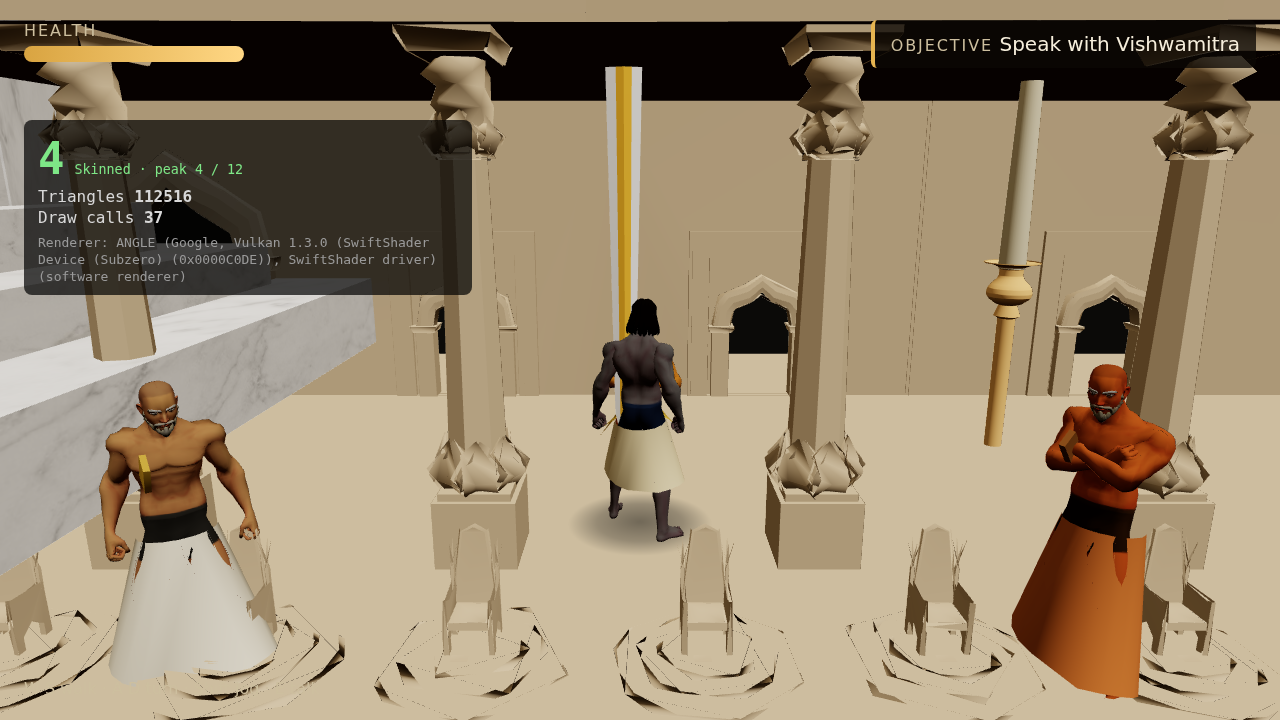
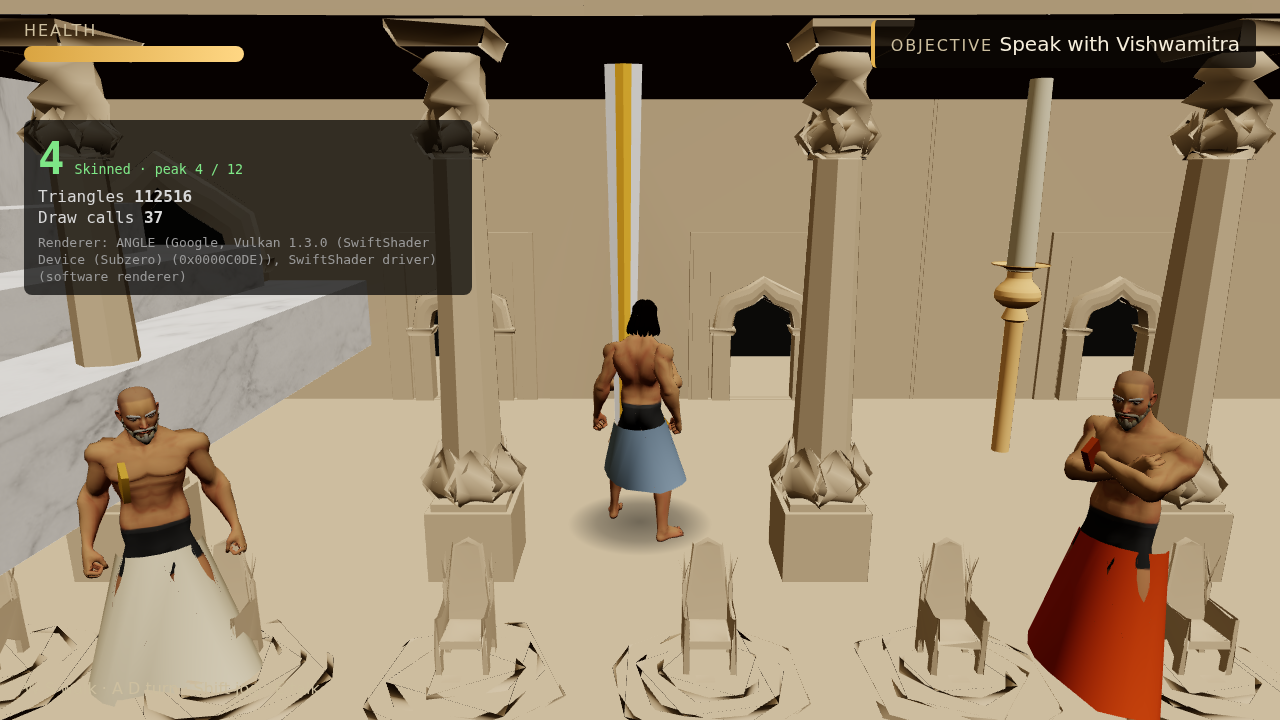
fix: prop grip scale and tint-on-garments-not-skin
Two user-reported visual bugs, confirmed with fresh screenshots before
fixing rather than assumed from the old committed ones.

Held props (bow, quiver, sword) rendered at 2-2.3m: the Quaternius source
GLBs bake a node-level 100x scale correct for environment props, never
adjusted for being hand-held. attachProp() now takes a per-prop
GripTransform (position, rotation, scale) sourced from balance.ts instead
of a bare position/rotation pair. The L1 court's separate giant
pillar/mace turned out to be baked into palace.glb's own decimated
geometry, not a prop-attachment bug at all - logged in TODO.md's new
visual-pass section instead of touched.

CharacterSpec.tint was painting the body material orange/white/etc
instead of the garments - a leftover from before Phase A's garments
existed, when skin was the only way to tell characters apart.
mergeSkinned() now takes body and garment parts separately and only
multiplies tint into the garment materials; skin, face, and eyes keep
their base texture on every character.

diff --git a/src/render/character-factory.ts b/src/render/character-factory.ts
@@ -71,14 +71,20 @@ function stripped(geometry: BufferGeometry): BufferGeometry {
   return g
 }
 
-/** Merge the source primitives into one SkinnedMesh with one material group per primitive. */
-function mergeSkinned(parts: SkinnedMesh[], tier: ResolvedTier, tint: string): SkinnedMesh {
-  const body = parts.reduce((a, b) => (a.geometry.index!.count > b.geometry.index!.count ? a : b))
-  const geometries = parts.map((p) => stripped(p.geometry))
+/**
+ * Merge the source primitives into one SkinnedMesh with one material group per primitive.
+ * `tint` (CharacterSpec.tint) multiplies into the garment materials only — dhoti, choli, sash,
+ * and any future crown. Skin, face, eyes stay on their own base texture, untinted; body-painted
+ * sages was a bug (see TODO.md, pass 3 phase D/E fix), not the intended look.
+ */
+function mergeSkinned(bodyParts: SkinnedMesh[], garmentParts: SkinnedMesh[], tier: ResolvedTier, tint: string): SkinnedMesh {
+  const allParts = [...bodyParts, ...garmentParts]
+  const body = bodyParts.reduce((a, b) => (a.geometry.index!.count > b.geometry.index!.count ? a : b))
+  const geometries = allParts.map((p) => stripped(p.geometry))
   const merged = mergeGeometries(geometries, true)
   geometries.forEach((g) => g.dispose())
   if (!merged) throw new Error('character primitives could not be merged')
-  const materials = parts.map((p) => tierMaterial(p.material as Material, tier, p === body ? { tint } : {}))
+  const materials = allParts.map((p) => tierMaterial(p.material as Material, tier, garmentParts.includes(p) ? { tint } : {}))
   const mesh = new SkinnedMesh(merged, materials)
   mesh.name = body.name
   mesh.frustumCulled = false
@@ -99,10 +105,19 @@ function attachHair(source: SkinnedMesh, head: Bone, tier: ResolvedTier, tint: s
   return mesh
 }
 
-function attachProp(prop: Object3D, bone: Bone, pos: readonly number[], rot: readonly number[], tier: ResolvedTier): Group {
+/** Grip transform: local offset, euler rotation (radians), and uniform scale — the source
+ * prop models bake unrelated real-world scales (see balance.ts), never a human hand's. */
+interface GripTransform {
+  readonly pos: readonly number[]
+  readonly rot: readonly number[]
+  readonly scale: number
+}
+
+function attachProp(prop: Object3D, bone: Bone, grip: GripTransform, tier: ResolvedTier): Group {
   const holder = new Group()
-  holder.position.set(pos[0], pos[1], pos[2])
-  holder.rotation.set(rot[0], rot[1], rot[2])
+  holder.position.set(grip.pos[0], grip.pos[1], grip.pos[2])
+  holder.rotation.set(grip.rot[0], grip.rot[1], grip.rot[2])
+  holder.scale.setScalar(grip.scale)
   applyTierMaterials(prop, tier)
   holder.add(prop)
   bone.add(holder)
@@ -113,10 +128,10 @@ async function attachProps(id: CharacterId, bones: Map<string, Bone>, tier: Reso
   const aim = BALANCE.archeryAim
   const out = new Map<PropKind, Group>()
   for (const kind of CHARACTER_SPECS[id].props) {
-    if (kind === 'bow') out.set(kind, attachProp(cloneSkeleton((await loadGltf('bow')).scene), bones.get(SKELETON.LEFT_HAND)!, aim.BOW_GRIP_POS, aim.BOW_GRIP_ROT, tier))
+    if (kind === 'bow') out.set(kind, attachProp(cloneSkeleton((await loadGltf('bow')).scene), bones.get(SKELETON.LEFT_HAND)!, { pos: aim.BOW_GRIP_POS, rot: aim.BOW_GRIP_ROT, scale: aim.BOW_GRIP_SCALE }, tier))
     // ponytail: no quiver mesh in the pack; the arrow model stands in on the back.
-    if (kind === 'quiver') out.set(kind, attachProp(cloneSkeleton((await loadGltf('arrow')).scene), bones.get(SKELETON.SPINE_TOP)!, aim.QUIVER_POS, aim.QUIVER_ROT, tier))
-    if (kind === 'sword') out.set(kind, attachProp(cloneSkeleton((await loadGltf('sword')).scene), bones.get(SKELETON.RIGHT_HAND)!, BALANCE.melee.SWORD_GRIP_POS, BALANCE.melee.SWORD_GRIP_ROT, tier))
+    if (kind === 'quiver') out.set(kind, attachProp(cloneSkeleton((await loadGltf('arrow')).scene), bones.get(SKELETON.SPINE_TOP)!, { pos: aim.QUIVER_POS, rot: aim.QUIVER_ROT, scale: aim.QUIVER_SCALE }, tier))
+    if (kind === 'sword') out.set(kind, attachProp(cloneSkeleton((await loadGltf('sword')).scene), bones.get(SKELETON.RIGHT_HAND)!, { pos: BALANCE.melee.SWORD_GRIP_POS, rot: BALANCE.melee.SWORD_GRIP_ROT, scale: BALANCE.melee.SWORD_GRIP_SCALE }, tier))
   }
   return out
 }
@@ -132,7 +147,7 @@ export async function buildCharacter(id: CharacterId, opts: BuildOptions): Promi
   const parts = skinnedMeshes(rig)
   const skinIndexCtor = parts[0].geometry.attributes.skinIndex.array.constructor as SkinIndexCtor
   const garments = buildGarments(id, rig, parts[0].skeleton, parts[0].bindMatrix, skinIndexCtor)
-  const skinned = mergeSkinned([...parts, ...garments], opts.tier, spec.tint)
+  const skinned = mergeSkinned(parts, garments, opts.tier, spec.tint)
   assertSkeleton(skinned, id)
   parts[0].parent!.add(skinned)
   parts.forEach((p) => p.removeFromParent())

diff --git a/src/data/balance.ts b/src/data/balance.ts
@@ -129,19 +129,26 @@ export const BALANCE = {
     /** Arrow leaves from this height above the feet, this far ahead. */
     MUZZLE_HEIGHT: 1.35,
     MUZZLE_FORWARD: 0.5,
-    /** Bow grip: local offset and euler (radians) under hand_l. */
+    /** Bow grip: local offset, euler (radians), and uniform scale under hand_l. The Quaternius
+     * source model bakes a ~2m standing bow (node scale 100 on a centimetre-authored mesh) —
+     * BOW_GRIP_SCALE corrects it to a believable ~1.3m held bow. */
     BOW_GRIP_POS: [0, 0, 0],
     BOW_GRIP_ROT: [Math.PI / 2, 0, 0],
-    /** Quiver on the back: local offset and euler under spine_03. */
+    BOW_GRIP_SCALE: 0.65,
+    /** Quiver on the back: local offset, euler, and scale under spine_03. Same oversized-source
+     * correction as the bow — the stand-in arrow model bakes to ~1.5m. */
     QUIVER_POS: [-0.15, 0.1, -0.12],
     QUIVER_ROT: [0.3, 0, 0.5],
+    QUIVER_SCALE: 0.45,
   },
 
   melee: {
-    /** Sword grip: local offset and euler (radians) under hand_r. Same 90° convention as
-     * the bow grip — the source model is authored blade-up, +Y, like the bow's own rig pose. */
+    /** Sword grip: local offset, euler (radians), and scale under hand_r. Same 90° convention
+     * as the bow grip — the source model is authored blade-up, +Y, like the bow's own rig pose.
+     * The source model bakes to a ~2.3m blade; SWORD_GRIP_SCALE corrects it to a ~1m sword. */
     SWORD_GRIP_POS: [0, 0, 0],
     SWORD_GRIP_ROT: [Math.PI / 2, 0, 0],
+    SWORD_GRIP_SCALE: 0.4,
     /** Ticks the one-shot slash clip plays for before locomotion resumes control of the pose. */
     SLASH_TICKS: 36,
   },

diff --git a/TODO.md b/TODO.md
@@ -1,5 +1,54 @@
 # TODO
 
+## RESOLVED — held props (bow/quiver/sword) rendered at 2–2.3m, not human scale (2026-09-10)
+
+User-reported bug, confirmed with fresh L1/L2 screenshots before assuming: the Quaternius
+bow/arrow/sword source models each bake a node-level `scale: [100,100,100]` (authored in
+centimetres, exporter-compensated) that resolves to real sizes of ~2.0m (bow), ~1.5m (the
+arrow model standing in for a quiver), and ~2.3m (sword) — human-scale environment props, not
+hand-held-scale. `attachProp()` in `character-factory.ts` never corrected for this. Fixed with
+a `scale` field on each prop's grip transform, held as data in `balance.ts`
+(`BOW_GRIP_SCALE: 0.65`, `QUIVER_SCALE: 0.45`, `SWORD_GRIP_SCALE: 0.4`) alongside the existing
+position/rotation fields, applied in `attachProp()` via `holder.scale.setScalar()`. Verified
+with `docs/screenshots/bugfix-props-scale.png` (all three props on Rama, correctly
+proportioned) and fresh `l1-court.png` / `l2-range.png`.
+
+Turned out the L1 court screenshot's "giant pillar" and "oversized mace" the user also flagged
+are **not** this bug — L1 has `bow: false`, so Rama carries no props there at all. Confirmed by
+regenerating a fresh L1 screenshot: the objects are still there with zero character props in
+the scene, so they're baked into the palace's own decimated static mesh (`palace.glb`, a single
+merged Blender-decimated mesh — likely a decimation spike artifact on the original Sketchfab
+model's chandelier/banner-pole geometry). Logged under "Visual pass" below, not fixed — it's an
+environment asset defect, not a prop-attachment one, and out of this session's scope.
+
+## RESOLVED — CharacterSpec.tint painted skin, not cloth (2026-09-10)
+
+User-reported bug: Vishwamitra rendered fully orange and Vasishtha chalk-white, head to toe —
+`tint` (never a plausible skin tone in the data: Rama's is light blue) was being multiplied
+into the **body** material in `mergeSkinned()`, a leftover from before Phase A's garments
+existed and skin was the only way to tell characters apart. Fixed by splitting the material
+assignment: `mergeSkinned()` now takes body parts and garment parts separately and only
+multiplies `tint` into the garment materials (dhoti, choli, sash). Skin, face, and eyes render
+at their untouched base texture for every character; hair is unaffected either way (it was
+already on its own `hairTint`, never `tint`). Verified with
+`docs/screenshots/bugfix-tint-sages.png` and fresh `l1-court.png` / `l2-range.png` — both sages
+now show natural skin with their garment carrying the distinct colour.
+
+## Visual pass (deferred — a dedicated pass happens after all five levels are playable)
+
+- **Palace giant pillar/mace artifact.** A very tall, very thin vertical shape (gold) and a
+  separate rod-with-bulb shape (beige) stand fixed in the L1 throne room regardless of camera
+  angle — visible in `l1-court.png`. Confirmed not a character-prop bug (L1 equips no props).
+  `palace.glb` is a single merged mesh after Blender decimation (pass 2), so there's no
+  separable sub-object to fix via a transform; likely a decimation spike on the original
+  Sketchfab model's thin geometry (a chandelier chain, banner pole, or similar). Would need
+  re-decimating with different settings or manual cleanup in Blender.
+- **A small floating/hanging figure** appears between two throne-room columns in some L1
+  camera angles (seen while chasing the tint bug, `sage-check-vasishtha.png`, not committed).
+  Not investigated — possibly an NPC clipping through geometry or a stray prop instance.
+- The angavastram sash's exact drape/visibility across all characters is still only spot-
+  checked (see the phase A entry below) — a `?debug=cast` view remains unbuilt.
+
 ## RESOLVED — Tataka not covered above the waist (pass 3 phase D, 2026-09-10)
 
 `render/garments.ts` now builds a choli (torso wrap, pelvis→clavicle height, skinned to

diff --git a/SESSION-LOG.md b/SESSION-LOG.md
@@ -2,6 +2,53 @@
 
 Newest first. Note which agent did the work.
 
+## 2026-09-10 — Claude Code (Sonnet 5) — fix: prop grip scale, tint on garments not skin
+
+Branch `feat/pass-3-overnight`, on top of `397edaf` (phase D). Two user-reported bugs from
+reviewing `docs/screenshots/*`, fixed before starting Phase E as instructed.
+
+**Bug 1 — props at the wrong scale.** Confirmed first with fresh L1/L2 screenshots rather than
+trusting the committed ones. The Quaternius bow/arrow/sword GLBs each bake a node-level
+`scale: [100,100,100]` (centimetre-authored, exporter-compensated) that resolves to ~2.0m
+(bow), ~1.5m (the arrow standing in for a quiver), and ~2.3m (sword) — correctly-sized
+*environment* props, never corrected for being hand-held. `character-factory.ts`'s
+`attachProp()` had no scale parameter at all. Fixed: a `GripTransform` (`pos`, `rot`, `scale`)
+per prop, the scale values held in `balance.ts` (`BOW_GRIP_SCALE: 0.65`, `QUIVER_SCALE: 0.45`,
+`SWORD_GRIP_SCALE: 0.4`), applied via `holder.scale.setScalar()` in `attachProp()`.
+
+The L1 court screenshot's "giant pillar" and "oversized mace" turned out to be a **different,
+pre-existing** bug: L1 equips no props at all (`bow: false`), confirmed by a fresh screenshot
+showing them still present with zero character props in the scene. They're baked into
+`palace.glb`'s own geometry (a single merged mesh after pass-2 Blender decimation — no longer
+a separable sub-object), most likely a decimation spike on the original Sketchfab model. Not
+fixed — logged under "Visual pass" in TODO.md, out of scope (environment asset defect, not a
+prop-attachment one, and the user asked for a dedicated visual pass later, not opportunistic
+fixes now).
+
+**Bug 2 — tint painted skin instead of cloth.** `CharacterSpec.tint` (never a plausible skin
+tone — Rama's is light blue) was being multiplied into the body material in `mergeSkinned()`,
+left over from before Phase A's garments existed, when tinting the body was the only way to
+tell characters apart. Fixed by splitting `mergeSkinned()`'s parameters into body parts and
+garment parts, multiplying `tint` into garment materials only (dhoti, choli, sash). Skin,
+face, and eyes keep their base texture for every character; hair was already independent
+(`hairTint`, never `tint`), unaffected either way.
+
+**Verified**
+- 78 unit tests green, `typecheck` and `lint` clean (no test exercises `mergeSkinned`'s
+  material split directly — it needs a real WebGL-loaded body mesh — so this was verified
+  visually, per the user's explicit ask).
+- `docs/screenshots/bugfix-props-scale.png`: Rama with all three props (bow, quiver, sword)
+  at believable human scale, one clean shot showing all of them together.
+- `docs/screenshots/bugfix-tint-sages.png` plus fresh `l1-court.png` / `l2-range.png` (full
+  real e2e runs, not just debug screenshots): Vishwamitra and Vasishtha both show natural skin
+  with their garment carrying the distinct colour.
+- Full L1 and L2 e2e both re-run and pass after both fixes (L2 solo — running both L1 and L2
+  concurrently this time starved L2 of CPU under SwiftShader and it hit the 900s timeout at
+  15.5 minutes; alone it passed in 14.0 minutes, slower than the ~5.5–8.7 min seen earlier in
+  this session, environmental load rather than a regression — L1 passed either way).
+
+**Next**: Phase E (Level 4, five-arrow challenge) per `OVERNIGHT.md`.
+
 ## 2026-09-10 — Claude Code (Sonnet 5) — pass 3 phase D: combat, enemy AI, Level 3 Tataka
 
 Branch `feat/pass-3-overnight`, on top of `5ce4ff8` (phase C). Also closes the Tataka modesty
